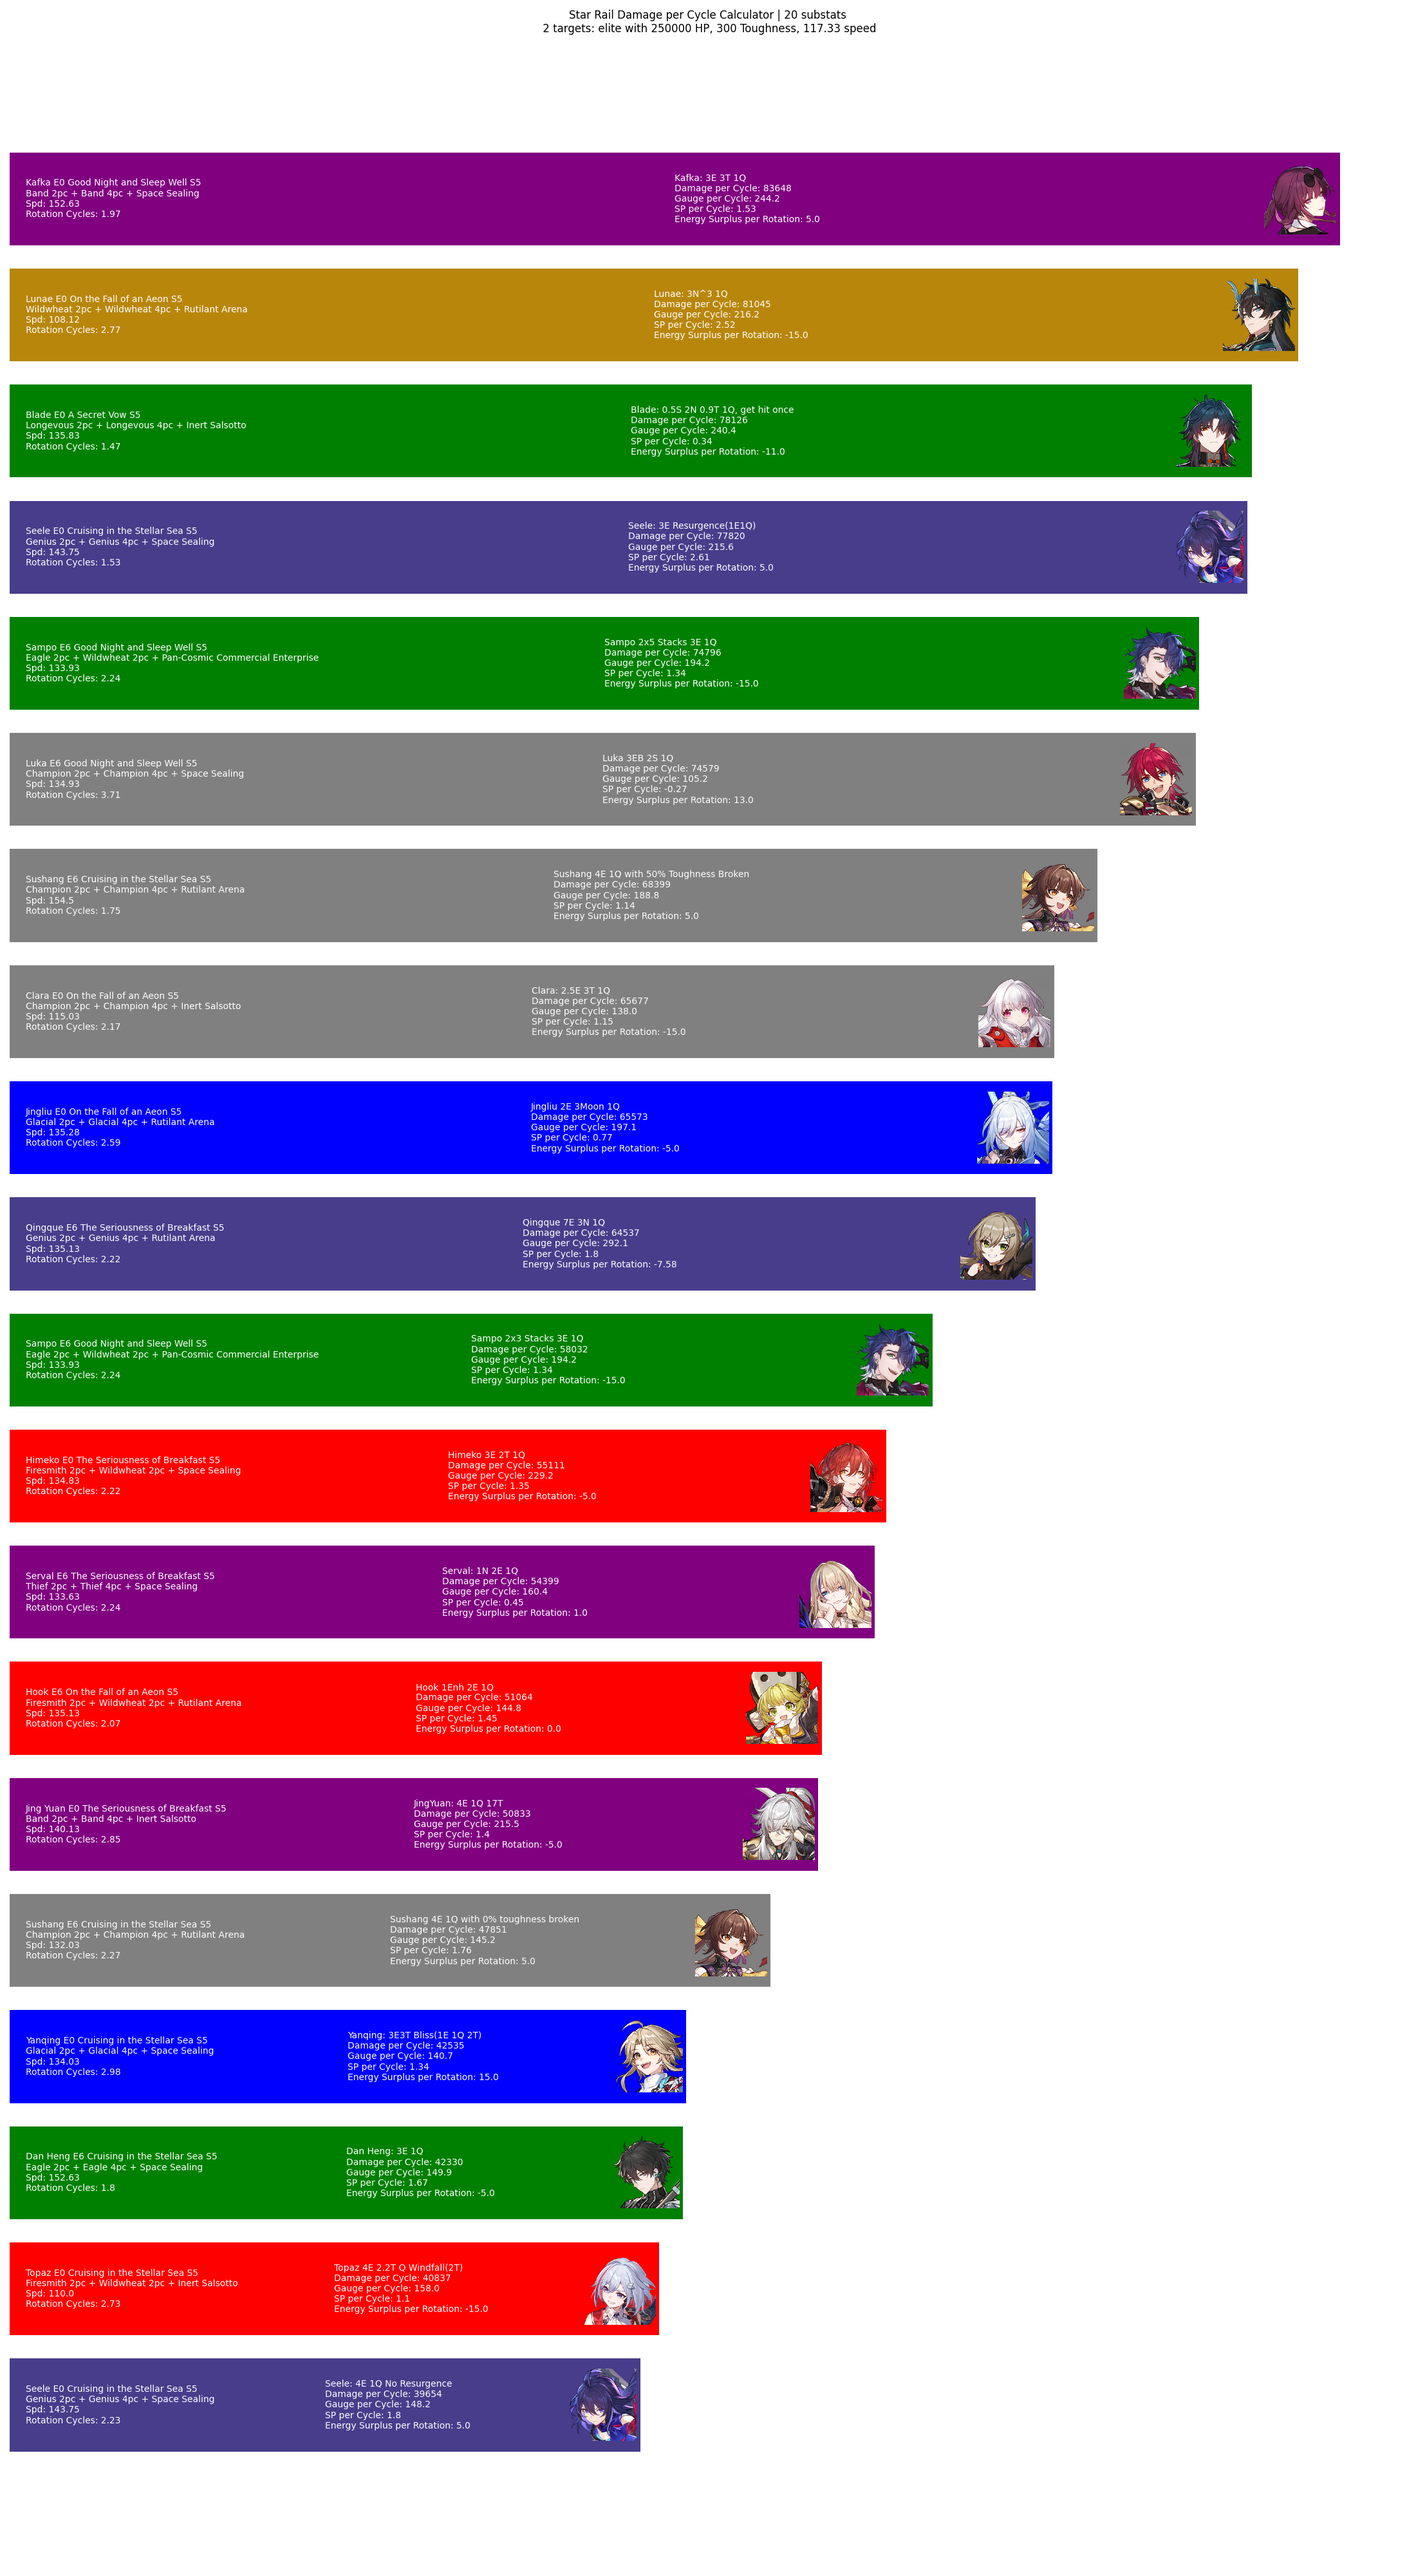
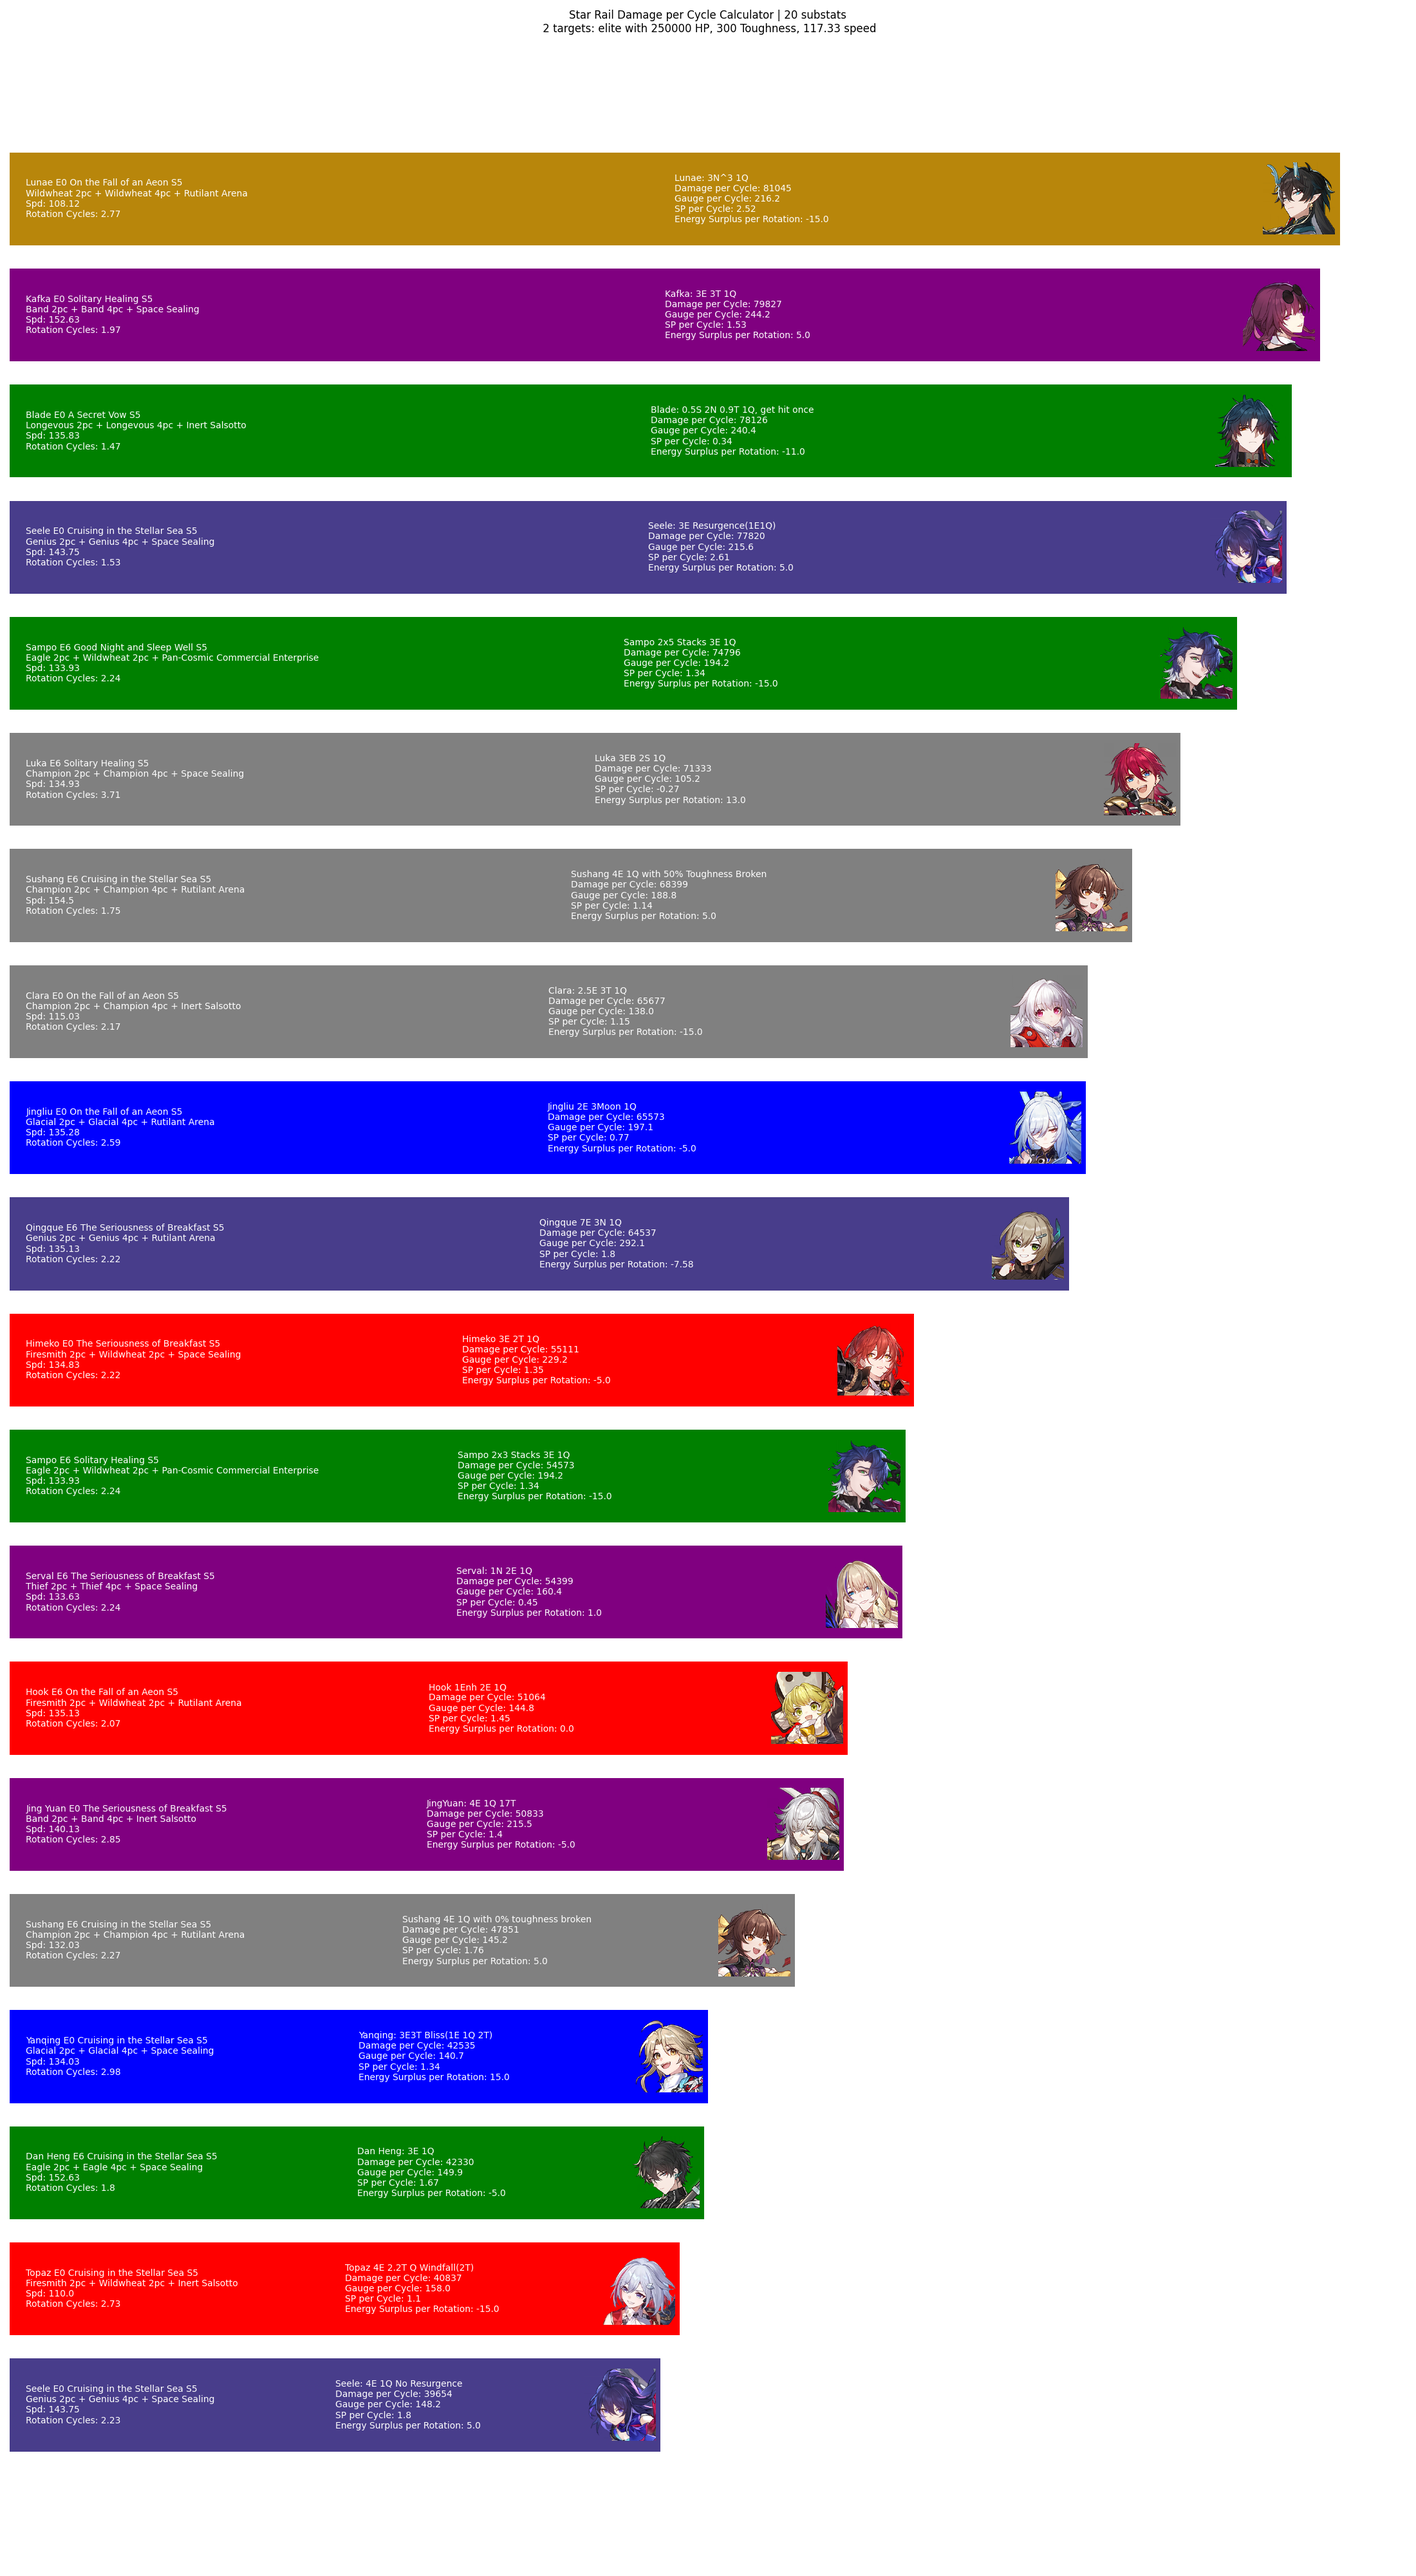
solitary healing fix

diff --git a/main.py b/main.py
@@ -114,7 +114,7 @@ if __name__ == '__main__':
     # Kafka
     KafkaCharacter = Kafka(relicstats = RelicStats(mainstats = ['percAtk', 'flatSpd', 'percAtk', 'lighDmg'],
                             substats = {'EHR': 5, 'percAtk': 3, 'flatSpd': 12}),
-                lightcone = GoodNightAndSleepWell(stacks=3,**config),
+                lightcone = SolitaryHealing(**config),
                 relicsetone = BandOfSizzlingThunder2pc(), relicsettwo = BandOfSizzlingThunder4pc(), planarset = SpaceSealingStation(),
                 **config)
     
@@ -406,7 +406,7 @@ if __name__ == '__main__':
     # Sampo
     SampoCharacter = Sampo(RelicStats(mainstats = ['percAtk', 'flatSpd', 'percAtk', 'windDmg'],
                             substats = {'percAtk': 7, 'flatSpd': 3, 'EHR': 10}),
-                lightcone = GoodNightAndSleepWell(**config),
+                lightcone = SolitaryHealing(**config),
                 relicsetone = EagleOfTwilightLine2pc(),
                 relicsettwo = MusketeerOfWildWheat2pc(),
                 planarset = PanCosmicCommercialEnterprise(),
@@ -423,7 +423,7 @@ if __name__ == '__main__':
     # Luka
     LukaCharacter = Luka(RelicStats(mainstats = ['percAtk', 'flatSpd', 'percAtk', 'physDmg'],
                         substats = {'percAtk': 4, 'flatSpd': 3, 'EHR': 13}),
-                lightcone = GoodNightAndSleepWell(**config),
+                lightcone = SolitaryHealing(**config),
                 relicsetone = ChampionOfStreetwiseBoxing2pc(),
                 relicsettwo = ChampionOfStreetwiseBoxing4pc(),
                 planarset = SpaceSealingStation(),

diff --git a/lightCones/nihility/SolitaryHealing.py b/lightCones/nihility/SolitaryHealing.py
@@ -12,7 +12,7 @@ class SolitaryHealing(BaseLightCone):
   def equipTo(self, char:BaseCharacter):
     self.addBaseStats(char)
     if char.path == 'nihility':
-      char.BreakEffect += 0.15 + 0.05 * self.superposition
+      char.breakEffect += 0.15 + 0.05 * self.superposition
       char.DmgType['dot'] += ( 0.18 + 0.06 * self.superposition ) * self.uptime
       # on kill energy not factored in
       
